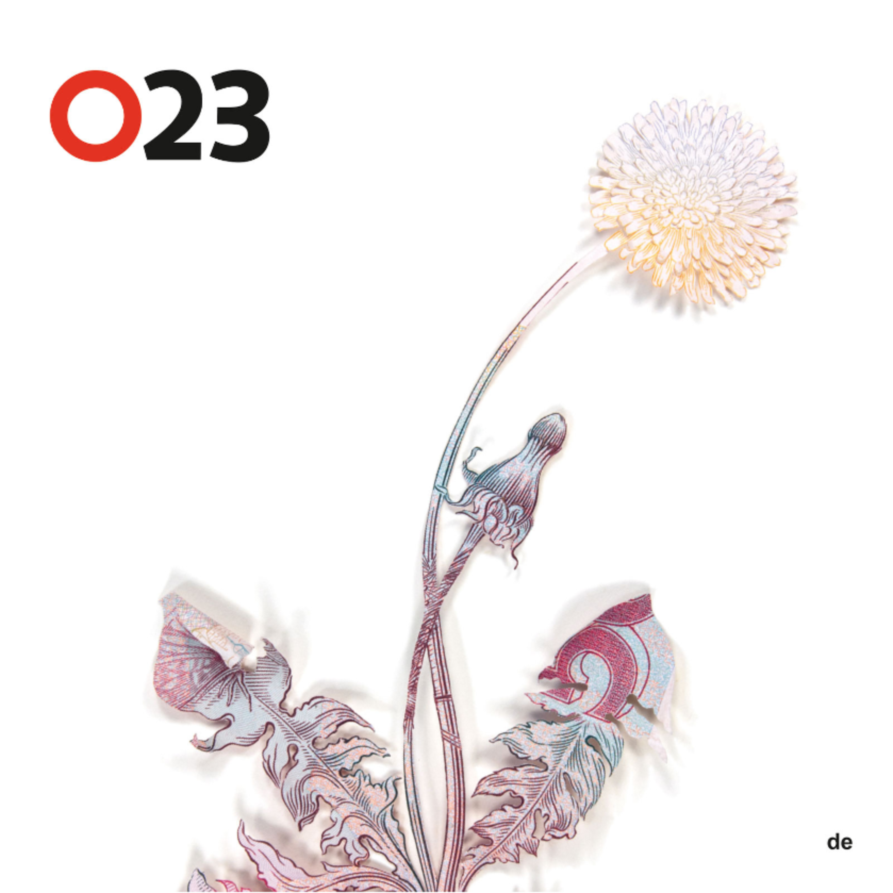
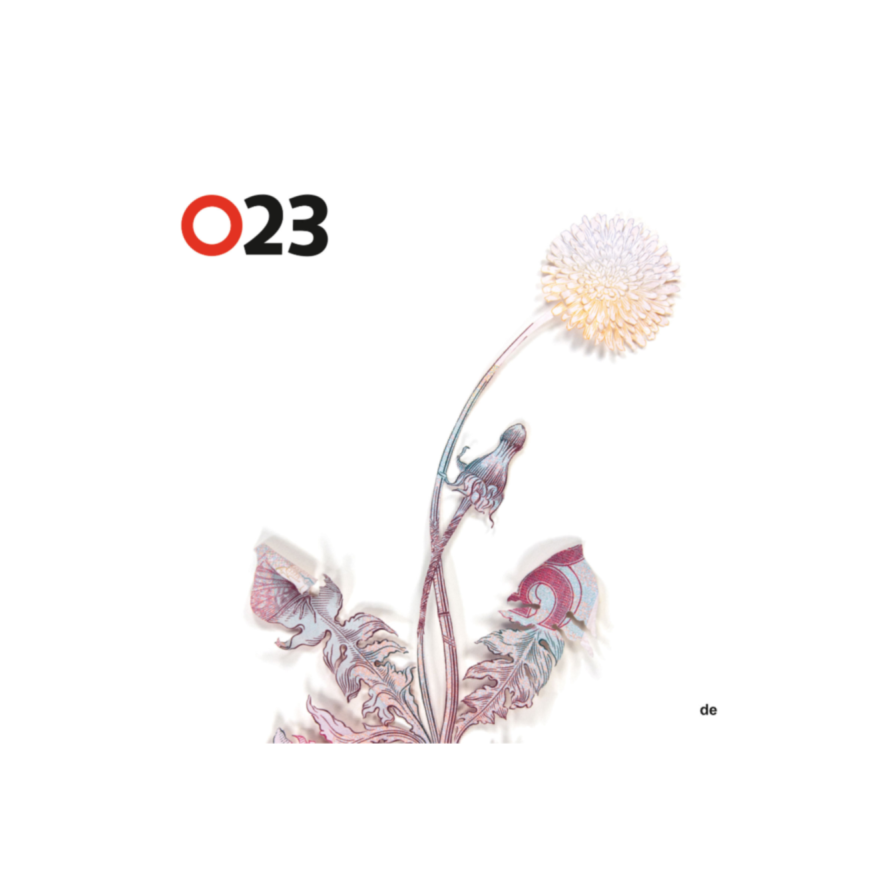
chahges: html and styles.css

diff --git a/lighttpd/files/var/www/html/index.html b/lighttpd/files/var/www/html/index.html
@@ -10,20 +10,20 @@
 
 
     <!-- Bootstrap CSS -->
-    <script src="https://07a2b28cffdec25ae447c46c7c91ec6e.balena-devices.com/js/jquery.min.js"></script>
-    <script src="https://07a2b28cffdec25ae447c46c7c91ec6e.balena-devices.com/js/survey.jquery.min.js"></script>
-    <script src="https://07a2b28cffdec25ae447c46c7c91ec6e.balena-devices.com/js/bootstrap.bundle.min.js"></script>
-    <link rel="stylesheet" href="https://07a2b28cffdec25ae447c46c7c91ec6e.balena-devices.com/css/defaultV2.min.css" />
-    <link rel="stylesheet" href="https://07a2b28cffdec25ae447c46c7c91ec6e.balena-devices.com/css/normalize.min.css" />
-    <link rel="stylesheet" href ="https://07a2b28cffdec25ae447c46c7c91ec6e.balena-devices.com/css/bootstrap.min.css" />
-    <link rel="stylesheet" href ="https://07a2b28cffdec25ae447c46c7c91ec6e.balena-devices.com/css/bootstrap-grid.min.css" />
+    <script src="./js/jquery.min.js"></script>
+    <script src="./js/survey.jquery.min.js"></script>
+    <script src="./js/bootstrap.bundle.min.js"></script>
+    <link rel="stylesheet" href="./css/defaultV2.min.css" />
+    <link rel="stylesheet" href="./css/normalize.min.css" />
+    <link rel="stylesheet" href ="./css/bootstrap.min.css" />
+    <link rel="stylesheet" href ="./css/bootstrap-grid.min.css" />
     <!-- Apply the Bootstrap theme -->
-    <script src="https://07a2b28cffdec25ae447c46c7c91ec6e.balena-devices.com/js/bootstrap-integration.min.js"></script>
+    <script src="./js/bootstrap-integration.min.js"></script>
 
-    <link rel="stylesheet" href="https://07a2b28cffdec25ae447c46c7c91ec6e.balena-devices.com/css/flag-icon.min.css" />
-    <link rel="stylesheet" href ="https://07a2b28cffdec25ae447c46c7c91ec6e.balena-devices.com/css/styles.css" />
-    <link rel="icon" type="image/vnd.icon" href="https://07a2b28cffdec25ae447c46c7c91ec6e.balena-devices.com/images/favicon.ico" />
-    
+    <link rel="stylesheet" href="./css/flag-icon.min.css" />
+    <link rel="stylesheet" href ="./css/styles.css" />
+    <link rel="icon" type="image/vnd.icon" href="./images/favicon.ico" />
+    <script src="./js/scripts.js"></script>
     <title>Umfrage zur Ostrale Biennale O23</title>
 </head>
 <body id="page-top">
@@ -31,13 +31,13 @@
         <div class="container">
             <div class="row">
                 <div class="col left">
-                    <img src="https://07a2b28cffdec25ae447c46c7c91ec6e.balena-devices.com/images/kammer_flimmern_o23_x750_250px_96dpi_1024px.png" width="261px" height="52px" alt="kammer flimmern logo" class="img-fluid">
+                    <img src="./images/kammer_flimmern_1000x200.png" width="1000" height="200" alt="kammer flimmern logo" class="img-fluid">
                 </div>
                 <div class="col center text-center">
                   <h1>Umfrage zur Ostrale Biennale O23 </h1>  
                 </div>
                 <div class="col right">
-                    <img src = "https://07a2b28cffdec25ae447c46c7c91ec6e.balena-devices.com/images/ostrale_logo_de_250px_96dpi_1024px.png" width="261px" height="80px" class="img-fluid" alt="Ostrale Logo">
+                    <img src = "./images/ostrale_logo_905x304.png" width="905" height="304" class="img-fluid" alt="Ostrale Logo">
                 </div>
             </div>
         </div>
@@ -47,14 +47,14 @@
    <div class="jumbotron justify-content-center transform-50">
           <div id="carouselId" class="carousel slide carousel-fade" data-ride="carousel" data-interval="15000" data-bs-interval="15000">
             <div class="carousel-inner" role="listbox">
-                <div class="carousel-item active">
+                <div class="carousel-item active justify-content-center">
                     <div class="container">
                          <h2 class="display-4 text-black text-center">Beteilige Dich an der Umfrage zur Biennale O23!</h2>
                          <p class="lead">Flyer OSTRALE Biennale O23 / Stephanie Abben / de</p>
                          <hr class="my-2 fg-alert" >
-                         <img src = "https://07a2b28cffdec25ae447c46c7c91ec6e.balena-devices.com/images/slider/abben_001_893px.png" weight="893px" height="893px" class="img-fluid" alt="Flyer OSTRALE Biennale O23 / Stephanie Abben / de" caption="Flyer OSTRALE Biennale O23 (Bild: Stephanie Abben/de)">
+                         <img src = "./images/slider/abben_001_893px.png" weight="893px" height="893px" class="img-fluid" alt="Flyer OSTRALE Biennale O23 / Stephanie Abben / de" caption="Flyer OSTRALE Biennale O23 (Bild: Stephanie Abben/de)">
                          <p class="lead">
-                            <a class="btn btn-red btn-xxl" href="https://07a2b28cffdec25ae447c46c7c91ec6e.balena-devices.com/knockoutjs_german.html" role="button" style="margin-top: 15px;background-color: #ae0000;border-color: beige;">Starte Umfrage</a>
+                            <a class="btn btn-red btn-xxl text-white" href="./knockoutjs_german.html" role="button" style="margin-top: 15px;background-color: #ae0000;border-color: beige;">Starte Umfrage</a>
                          </p>
                      </div>
                 </div>
@@ -63,9 +63,9 @@
                         <h2 class="display-4">Take part in the survey about the biennial O23!</h2>
                             <p class="lead">Flyer OSTRALE Biennale O23 / Elvio Chiricozzi / en</p>
                             <hr class="my-2 alert">
-                            <img src="https://07a2b28cffdec25ae447c46c7c91ec6e.balena-devices.com/images/slider/choi_001_893px.png" weight="893px" height="893px"  loading="lazy" class="img-fluid" alt="Elvio Chiricozzi">
+                            <img src="./images/slider/choi_001_893px.png" weight="893px" height="893px"  loading="lazy" class="img-fluid" alt="Elvio Chiricozzi">
                             <p class="lead">
-                                <a class="btn btn-red btn-xxl" href="https://07a2b28cffdec25ae447c46c7c91ec6e.balena-devices.com/knockoutjs_german.html" role="button" style="margin-top: 15px;background-color: #ae0000;border-color: beige;" >Start the survey</a>
+                                <a class="btn btn-red btn-xxl text-white" href="./knockoutjs_german.html" role="button" style="margin-top: 15px;background-color: #ae0000;border-color: beige;" >Start the survey</a>
                             </p>
                         </div>
 
@@ -75,9 +75,9 @@
                             <h2 class="display-4">Sag uns Deine Meinung!</h2>
                             <p class="lead">Flyer OSTRALE Biennale O23 / Michael Wesely / en</p>
                             <hr class="my-2 alert">
-                            <img src="https://07a2b28cffdec25ae447c46c7c91ec6e.balena-devices.com/images/slider/wesley_001_893px.png" weight="893px" height="893px" loading="lazy" class="img-fluid" alt="Michael Wesely">
+                            <img src="./images/slider/wesley_001_893px.png" weight="893px" height="893px" loading="lazy" class="img-fluid" alt="Michael Wesely">
                             <p class="lead">
-                                <a class="btn btn-red btn-xxl" href="https://07a2b28cffdec25ae447c46c7c91ec6e.balena-devices.com/knockoutjs_german.html" role="button" style="margin-top: 15px;background-color: #ae0000;border-color: beige;">Starte Umfrage</a>
+                                <a class="btn btn-red btn-xxl text-white" href="./knockoutjs_german.html" role="button" style="margin-top: 15px;background-color: #ae0000;border-color: beige;">Starte Umfrage</a>
                             </p>
                         </div>
                 </div>
@@ -86,9 +86,9 @@
                             <h1 class="display-4">Tell us your opinion</h1>
                             <p class="lead">Flyer OSTRALE Biennale O23 / Philipp Valenta / de</p>
                             <hr class="my-2 alert">
-                            <img src="https://07a2b28cffdec25ae447c46c7c91ec6e.balena-devices.com/images/slider/valenta_001_893px.png" weight="893px" height="893px" loading="lazy" class="img-fluid" alt="Philipp Valenta">
+                            <img src="./images/slider/valenta_001_893px.png" weight="893px" height="893px" loading="lazy" class="img-fluid" alt="Philipp Valenta">
                             <p class="lead">
-                                <a class="btn btn-red btn-xxl" href="https://07a2b28cffdec25ae447c46c7c91ec6e.balena-devices.com/knockoutjs_german.html" role="button" style="margin-top: 15px;background-color: #ae0000;border-color: beige;">Start the survey</a>
+                                <a class="btn btn-red btn-xxl text-white" href="./knockoutjs_german.html" role="button" style="margin-top: 15px;background-color: #ae0000;border-color: beige;">Start the survey</a>
                             </p>
                     </div>
                 </div>
@@ -98,8 +98,8 @@
  </div>
 </div>
 </main>
-<footer class="py-5 bg-dark">
-   <div class="container hidden">
+<footer class="py-5 bg-dark hidden">
+   <div class="container">
 <p class="m-0 text-center text-white">
         © Ostrale 2023 |
         All Rights Reserved</p>

diff --git a/lighttpd/files/var/www/html/knockoutjs_german.html b/lighttpd/files/var/www/html/knockoutjs_german.html
@@ -6,19 +6,19 @@
     <meta name="apple-mobile-web-app-capable" content="yes" />
     <meta name="mobile-web-app-capable" content="yes" />
     <!-- Bootstrap CSS -->
-    <script src="https://07a2b28cffdec25ae447c46c7c91ec6e.balena-devices.com/js/jquery.min.js"></script>
-    <script src="https://07a2b28cffdec25ae447c46c7c91ec6e.balena-devices.com/js/survey.jquery.min.js"></script>
-    <script src="https://07a2b28cffdec25ae447c46c7c91ec6e.balena-devices.com/js/bootstrap.bundle.min.js"></script>
-    <link rel="stylesheet" href="https://07a2b28cffdec25ae447c46c7c91ec6e.balena-devices.com/css/defaultV2.min.css" />
-    <link rel="stylesheet" href="https://07a2b28cffdec25ae447c46c7c91ec6e.balena-devices.com/css/normalize.min.css" />
-    <link rel="stylesheet" href ="https://07a2b28cffdec25ae447c46c7c91ec6e.balena-devices.com/css/bootstrap.min.css" />
-    <link rel="stylesheet" href ="https://07a2b28cffdec25ae447c46c7c91ec6e.balena-devices.com/css/bootstrap-grid.min.css" />
+    <script src="./js/jquery.min.js"></script>
+    <script src="./js/survey.jquery.min.js"></script>
+    <script src="./js/bootstrap.bundle.min.js"></script>
+    <link rel="stylesheet" href="./css/defaultV2.min.css" />
+    <link rel="stylesheet" href="./css/normalize.min.css" />
+    <link rel="stylesheet" href ="./css/bootstrap.min.css" />
+    <link rel="stylesheet" href ="./css/bootstrap-grid.min.css" />
     <!-- Apply the Bootstrap theme -->
-    <script src="https://07a2b28cffdec25ae447c46c7c91ec6e.balena-devices.com/js/bootstrap-integration.min.js"></script>
-
-    <link rel="stylesheet" href="https://07a2b28cffdec25ae447c46c7c91ec6e.balena-devices.com/css/flag-icon.min.css" />
-    <link rel="stylesheet" href ="https://07a2b28cffdec25ae447c46c7c91ec6e.balena-devices.com/css/styles.css" />
-    <link rel="icon" type="image/vnd.icon" href="https://07a2b28cffdec25ae447c46c7c91ec6e.balena-devices.com/images/favicon.ico" />
+    <script src="./js/bootstrap-integration.min.js"></script>
+    <script src="./js/scripts.js"></script>
+    <link rel="stylesheet" href="./css/flag-icon.min.css" />
+    <link rel="stylesheet" href ="./css/styles.css" />
+    <link rel="icon" type="image/vnd.icon" href="./images/favicon.ico" />
     
     <title>Ostrale O23 Umfrage</title>
 </head>
@@ -27,13 +27,13 @@
         <div class="container top">
             <div class="row">
                 <div class="col left">
-                    <img src="https://07a2b28cffdec25ae447c46c7c91ec6e.balena-devices.com/images/kammer_flimmern_o23_x750_250px_96dpi_1024px.png" width="261px" height="52px" alt="kammer_flimmern_O23" class="img">
+                    <img src="./images/kammer_flimmern_1000x200.png" width="1000" height="200" alt="kammer flimmern logo" class="img">
                 </div>
                 <div class="col center text-center">
                   <h1> Ostrale Biennale O23 Umfrage </h1>  
                 </div>
                 <div class="col right">
-                    <img src = "https://07a2b28cffdec25ae447c46c7c91ec6e.balena-devices.com/images/ostrale_logo_de_250px_96dpi_1024px.png"  loading="eager" width="261px" height="80px" class="img" alt="Ostrale Logo">
+                    <img src = "./images/ostrale_logo_905x304.png"width="905" height="304" class="img" alt="Ostrale Logo" class="img">
 			<div class="custom-select">
 			  <select class="custom-select__select" id="selLocales" onchange="changeLocale();">
 			        <option value="de" selected="">Deutsch</option>
@@ -48,8 +48,9 @@
     <div class="container">
       <div class="jumbotron justify-content-center transform-50">
 
-         <div id="surveyElement" style="display: inline-block; width: 98%;height:99vh;">
+         <div id="surveyElement" style="display: inline-block; max-width: 98%;max-height:95vh;">
            <survey params="survey: model"></survey>
+           <survey params="locale: de"></survey>
          </div>
        </div>
     </div> 
@@ -57,24 +58,15 @@
 
    
     
-    <script src="https://07a2b28cffdec25ae447c46c7c91ec6e.balena-devices.com/js/knockoutjs_json_de.js"></script>
-    <script src="https://07a2b28cffdec25ae447c46c7c91ec6e.balena-devices.com/js/o23_umfrage_de.js"></script>
+    <script src="./js/ostrale023-umfrage_json.js"></script>
+    <script src="./js/ostrale23-umfrage.js"></script>
 <script>
   survey.locale = 'de';
 </script>
     
-<script>
-  function changeLocale() {
-    survey.locale = document.getElementById('selLocales').value;
-      if (!!window.survey) {
-          survey.locale = document.getElementById('selLocales').value;
-        }
-    }
-    changeLocale();
-</script>
   </main>
-<footer class="py-5 bg-dark">
-   <div class="container hidden">
+<footer class="py-5 bg-dark hidden">
+   <div class="container">
 <p class="m-0 text-center text-white">
         © Ostrale 2023 |
         All Rights Reserved</p>

diff --git a/lighttpd/files/var/www/html/js/scripts.js b/lighttpd/files/var/www/html/js/scripts.js
@@ -1,0 +1,8 @@
+/* private scripts */
+function changeLocale() {
+    survey.locale = document.getElementById('selLocales').value;
+      if (!!window.survey) {
+          survey.locale = document.getElementById('selLocales').value;
+        }
+    }
+changeLocale();

diff --git a/lighttpd/files/var/www/html/css/styles.css b/lighttpd/files/var/www/html/css/styles.css
@@ -1,3 +1,8 @@
+
+.hidden {
+  display:none;
+}
+
 /* (320x480) iPhone (Original, 3G, 3GS) */
 @media only screen and (min-device-width: 320px) and (max-device-width: 480px) {
   /* insert styles here */
